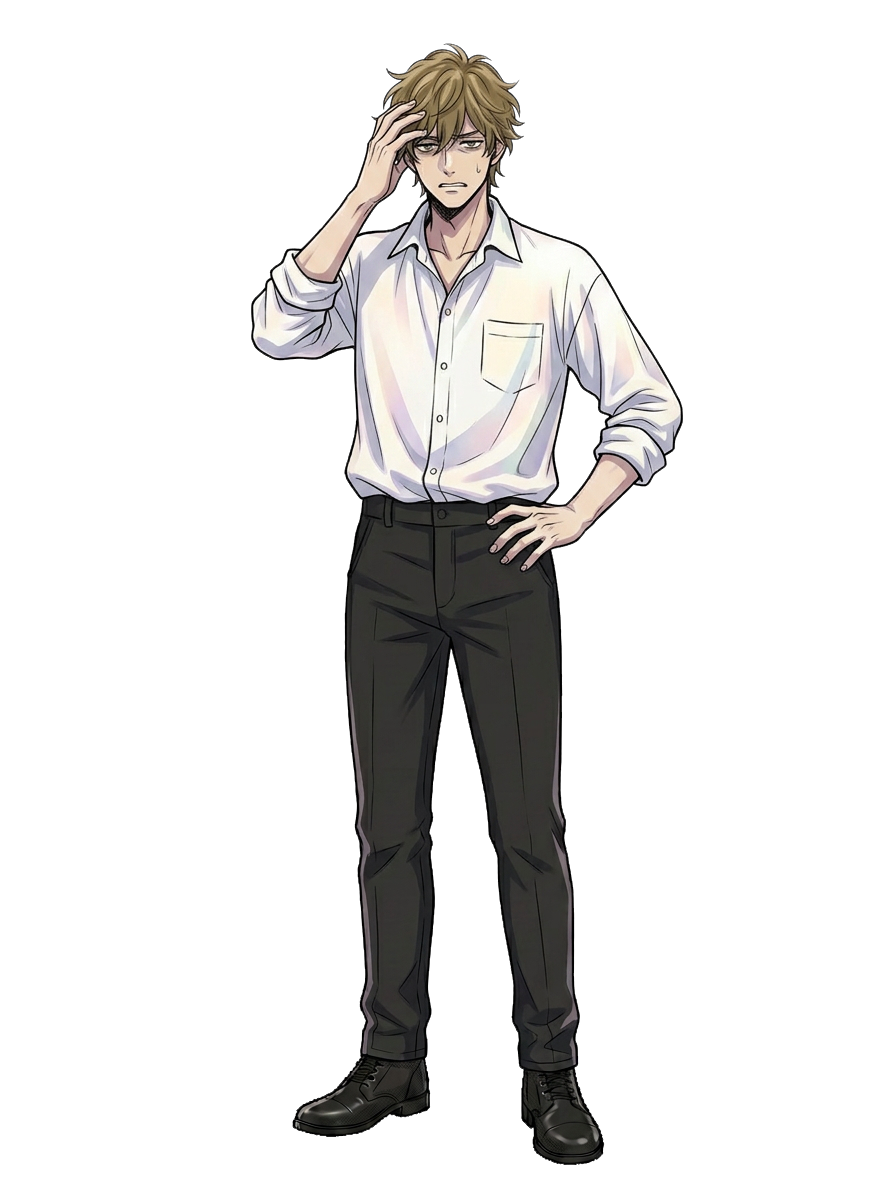
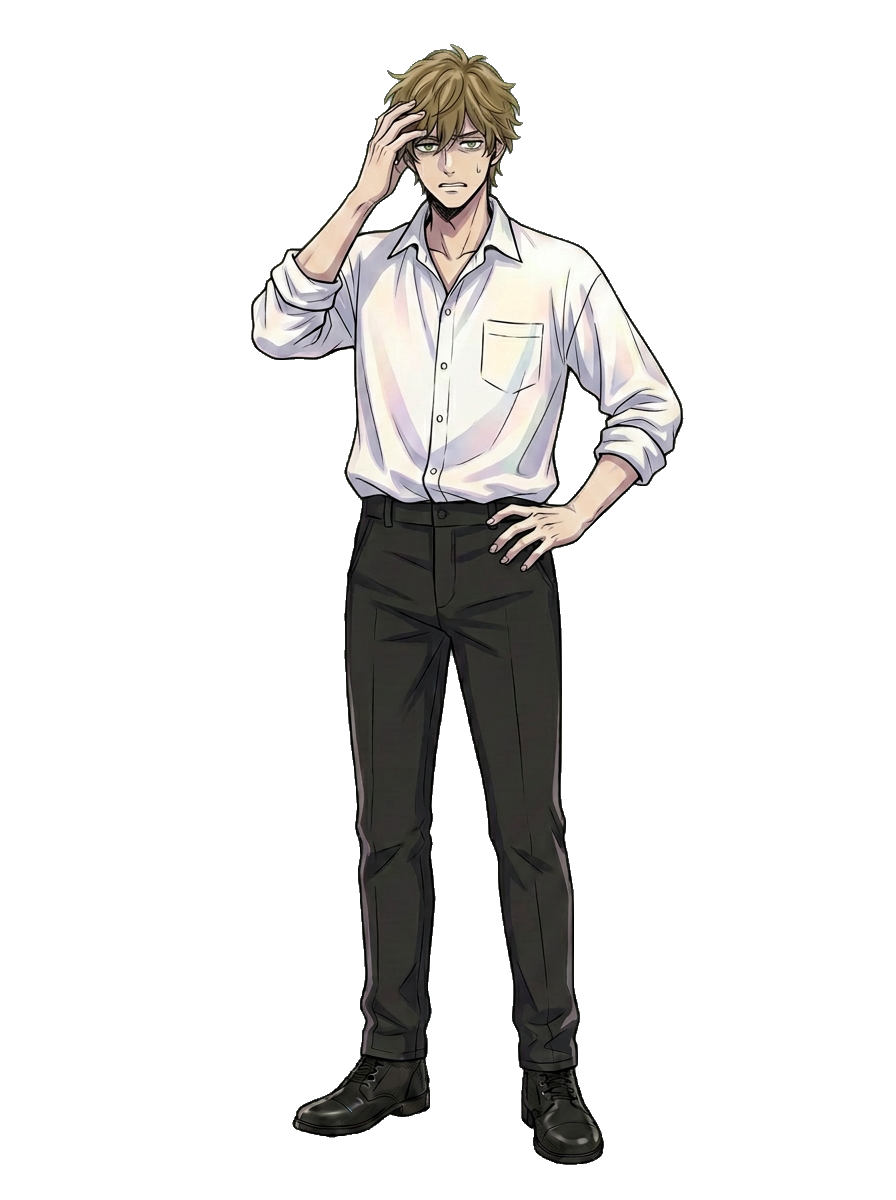
Courier thermo box in prologue text; chroma-key sprite pipeline (tools/chroma_key.py); Sasha shirt set re-cut x10, eyes fixed on 3; ASSET_VER _14

diff --git a/index.html b/index.html
@@ -260,34 +260,34 @@
   </div>
 
   <!-- SCRIPT CHAPTERS -->
-  <script src="vn-config.js?v=20261101_13"></script>
-  <script src="vn-core.js?v=20261101_13"></script>
-  <script src="script/_registry.js?v=20261101_13"></script>
-  <script src="script/prologue_1_morning.js?v=20261101_13"></script>
-  <script src="script/prologue_2_city.js?v=20261101_13"></script>
-  <script src="script/prologue_3_barbershop.js?v=20261101_13"></script>
-  <script src="script/prologue_4_depot.js?v=20261101_13"></script>
-  <script src="script/prologue_5_crash.js?v=20261101_13"></script>
-  <script src="script/day1_1_mirael.js?v=20261101_13"></script>
-  <script src="script/day1_2_valeria.js?v=20261101_13"></script>
-  <script src="script/day1_3_evening.js?v=20261101_13"></script>
-  <script src="script/day2_1_quit.js?v=20261101_13"></script>
-  <script src="script/day2_2_zero.js?v=20261101_13"></script>
-  <script src="script/day2_3_walk.js?v=20261101_13"></script>
-  <script src="script/day3_1_office.js?v=20261101_13"></script>
-  <script src="script/day3_2_nika.js?v=20261101_13"></script>
-  <script src="script/day3_3_home.js?v=20261101_13"></script>
-  <script src="script/day4_1_free.js?v=20261101_13"></script>
-  <script src="script/day4_2_barbershop.js?v=20261101_13"></script>
-  <script src="script/day4_3_home.js?v=20261101_13"></script>
-  <script src="script/day5_1_artyom.js?v=20261101_13"></script>
-  <script src="script/day5_2_elevator.js?v=20261101_13"></script>
-  <script src="script/day5_3_night.js?v=20261101_13"></script>
-  <script src="script/day6_1_morning.js?v=20261101_13"></script>
-  <script src="script/day6_2_squeeze.js?v=20261101_13"></script>
-  <script src="script/day6_3_taya.js?v=20261101_13"></script>
-  <script src="script/day7_1_voices.js?v=20261101_13"></script>
-  <script src="script/day7_2_stairs.js?v=20261101_13"></script>
-  <script src="engine.js?v=20261101_13"></script>
+  <script src="vn-config.js?v=20261101_14"></script>
+  <script src="vn-core.js?v=20261101_14"></script>
+  <script src="script/_registry.js?v=20261101_14"></script>
+  <script src="script/prologue_1_morning.js?v=20261101_14"></script>
+  <script src="script/prologue_2_city.js?v=20261101_14"></script>
+  <script src="script/prologue_3_barbershop.js?v=20261101_14"></script>
+  <script src="script/prologue_4_depot.js?v=20261101_14"></script>
+  <script src="script/prologue_5_crash.js?v=20261101_14"></script>
+  <script src="script/day1_1_mirael.js?v=20261101_14"></script>
+  <script src="script/day1_2_valeria.js?v=20261101_14"></script>
+  <script src="script/day1_3_evening.js?v=20261101_14"></script>
+  <script src="script/day2_1_quit.js?v=20261101_14"></script>
+  <script src="script/day2_2_zero.js?v=20261101_14"></script>
+  <script src="script/day2_3_walk.js?v=20261101_14"></script>
+  <script src="script/day3_1_office.js?v=20261101_14"></script>
+  <script src="script/day3_2_nika.js?v=20261101_14"></script>
+  <script src="script/day3_3_home.js?v=20261101_14"></script>
+  <script src="script/day4_1_free.js?v=20261101_14"></script>
+  <script src="script/day4_2_barbershop.js?v=20261101_14"></script>
+  <script src="script/day4_3_home.js?v=20261101_14"></script>
+  <script src="script/day5_1_artyom.js?v=20261101_14"></script>
+  <script src="script/day5_2_elevator.js?v=20261101_14"></script>
+  <script src="script/day5_3_night.js?v=20261101_14"></script>
+  <script src="script/day6_1_morning.js?v=20261101_14"></script>
+  <script src="script/day6_2_squeeze.js?v=20261101_14"></script>
+  <script src="script/day6_3_taya.js?v=20261101_14"></script>
+  <script src="script/day7_1_voices.js?v=20261101_14"></script>
+  <script src="script/day7_2_stairs.js?v=20261101_14"></script>
+  <script src="engine.js?v=20261101_14"></script>
 </body>
 </html>

diff --git a/script/prologue_2_city.js b/script/prologue_2_city.js
@@ -112,7 +112,7 @@ window.VN_CHAPTERS.push({
     { sprite: "clear", text: "Лифт ехал вниз долго, с остановками на пустых этажах. Саша от нечего делать открыл заметки, наткнулся на номер деканата и закрыл заметки." },
     { bg: "bg_river_steps_bridge", text: "Между заказами выпало минут пятнадцать свободных. Саша взял квас в ларьке у моста и сел на гранитные ступени у воды, в тень от моста." },
     { text: "Внизу мальчишки прыгали с парапета, визжали и всплывали, отфыркиваясь. Утки держались от них подальше. С того берега тянуло чьим-то шашлыком." },
-    { bg: "cg_kvass_steps", sprite: "clear", text: "Фейнман с оторванной обложкой всегда лежал в рюкзаке, на всякий случай. Саша открыл его на загнутом уголке и прочитал абзац. Потом тот же абзац ещё раз. Потом просто смотрел на воду." },
+    { bg: "cg_kvass_steps", sprite: "clear", text: "Фейнман с оторванной обложкой всегда лежал в кармане термокороба, на всякий случай. Саша открыл его на загнутом уголке и прочитал абзац. Потом тот же абзац ещё раз. Потом просто смотрел на воду." },
     { speaker: "Александр", thought: true, text: "Вот так бы и сидеть. Ничего не решать. Кто-нибудь когда-нибудь сам придёт и скажет: Орехов, вот твоё дело, вот твоя жизнь, распишись." },
     { bg: "bg_river_steps_bridge", text: "Приложение звякнуло, ругнулось оранжевым. Квас кончился. Он сунул книгу обратно, так и не загнув новый уголок." },
     { sprite: "clear", text: "Обратно в центр до следующей точки было минут двадцать. Дорог две: через старые дворы или вдоль воды." },

diff --git a/script/prologue_4_depot.js b/script/prologue_4_depot.js
@@ -134,7 +134,7 @@ window.VN_CHAPTERS.push({
     {
       if: "raincoat_packed",
       then: [
-        { sprite: { char: "alexander_jacket", emotion: "rain", pos: "left" }, text: "Саша вытащил из рюкзака жёлтый рулон и натянул дождевик прямо поверх рубашки. Светоотражающие полосы вспыхнули в фарах проезжающей маршрутки." },
+        { sprite: { char: "alexander_jacket", emotion: "rain", pos: "left" }, text: "Саша вытащил из кармана термокороба жёлтый рулон и натянул дождевик прямо поверх рубашки. Светоотражающие полосы вспыхнули в фарах проезжающей маршрутки." },
         { speaker: "Лена", sprite: { char: "lena", emotion: "snide", pos: "right" }, text: "Смотри-ка. Взрослый человек. Прогноз погоды читает." }
       ],
       else: [

diff --git a/script/prologue_1_morning.js b/script/prologue_1_morning.js
@@ -120,11 +120,11 @@ window.VN_CHAPTERS.push({
         prompt: "Синоптики обещали к ночи грозу.",
         options: [
           {
-            label: "Свернуть дождевик в рюкзак",
+            label: "Сунуть дождевик в карман термокороба",
             set: { raincoat_packed: true },
             next: [
               { speaker: "Александр", thought: true, text: "Синоптики врут через раз. Но мокнуть в Заречном — это без меня." },
-              { text: "Дождевик свернулся в тугой жёлтый рулон и занял половину рюкзака." }
+              { text: "Дождевик свернулся в тугой жёлтый рулон и еле влез в боковой карман термокороба." }
             ]
           },
           {

diff --git a/engine.js b/engine.js
@@ -1,6 +1,6 @@
 // ДВИЖОК ВИЗУАЛЬНОЙ НОВЕЛЛЫ «НЕ СМОТРИ НА НЕБО» ($WAG ENTERTAINMENT)
 (function () {
-  const ASSET_VER = "20261101_13";
+  const ASSET_VER = "20261101_14";
 
   function withVer(url) {
     if (!url) return "";

diff --git a/tools/chroma_key.py b/tools/chroma_key.py
@@ -1,0 +1,126 @@
+#!/usr/bin/env python3
+"""Хромакей для спрайтов: зелёный (или синий) фон -> прозрачность.
+
+Пайплайн (см. docs/production/assets.md, «Перевырезка спрайтов»):
+  1. Исходный спрайт на белом -> генератор «замени только фон на #00FF00».
+  2. Этот скрипт: вырезает фон, убирает зелёный отсвет по краю,
+     подгоняет фигуру по росту/положению к старому спрайту (--ref),
+     чтобы не съехали настройки слотов в styles.css.
+
+Использование:
+  python tools/chroma_key.py in_green.png out.png [--ref old_transparent.png] [--key blue]
+
+Нужны pillow, numpy, opencv-python-headless.
+"""
+import argparse
+
+import cv2
+import numpy as np
+from PIL import Image
+
+
+def key_alpha(rgb, key="green"):
+    r, g, b = rgb[..., 0], rgb[..., 1], rgb[..., 2]
+    if key == "green":
+        dom = g - np.maximum(r, b)
+    else:
+        dom = b - np.maximum(r, g)
+    h, w = dom.shape
+    border = np.concatenate([dom[0], dom[-1], dom[:, 0], dom[:, -1]])
+    k = float(np.median(border))  # «сила» ключа на чистом фоне
+    k = max(k, 60.0)
+    # ядро фона: сильно-зелёные пиксели (глаза/оливковая одежда сюда не попадают)
+    core = (dom > 0.5 * k).astype(np.uint8)
+    core = cv2.morphologyEx(core, cv2.MORPH_OPEN, np.ones((3, 3), np.uint8))
+    # мелкие «островки» внутри фигуры размером с блик — не фон
+    n, lab, st, _ = cv2.connectedComponentsWithStats(core, connectivity=8)
+    keep = np.zeros(n, bool)
+    for i in range(1, n):
+        x, y, ww, hh, area = st[i]
+        touches = x == 0 or y == 0 or x + ww >= w or y + hh >= h
+        keep[i] = touches or area >= 60
+    core = keep[lab].astype(np.uint8)
+    # узкие щели (между рукой и боком и т.п.) с почти чистым ключом — тоже фон
+    core |= (dom > 0.75 * k).astype(np.uint8)
+    # зона ключа: 12 px вокруг фона — ловит просветы между прядями;
+    # глаза и одежда глубже внутри фигуры и сюда не попадают
+    band = cv2.dilate(core, cv2.getStructuringElement(cv2.MORPH_ELLIPSE, (25, 25))).astype(bool)
+    # альфа по «зелёному перевесу»: 0 на чистом ключе, 1 на обычном цвете
+    lo, hi = 0.12 * k, 0.88 * k
+    a = 1.0 - np.clip((dom - lo) / (hi - lo), 0.0, 1.0)
+    alpha = np.ones_like(dom)
+    alpha[band] = a[band]
+    alpha[core.astype(bool)] = 0.0
+    return alpha, band, k
+
+
+def despill(rgb, alpha, band, key="green"):
+    out = rgb.copy()
+    r, g, b = out[..., 0], out[..., 1], out[..., 2]
+    m = band & (alpha > 0)
+    if key == "green":
+        lim = np.maximum(r, b)
+        out[..., 1] = np.where(m, np.minimum(g, lim), g)
+    else:
+        lim = np.maximum(r, g)
+        out[..., 2] = np.where(m, np.minimum(b, lim), b)
+    return out
+
+
+def bbox(alpha, thr=0.5):
+    ys, xs = np.nonzero(alpha > thr)
+    return xs.min(), ys.min(), xs.max(), ys.max()
+
+
+def align_to_ref(rgba, ref_rgba):
+    """Масштаб/сдвиг так, чтобы фигура совпала по высоте, макушке и центру с эталоном."""
+    H, W = ref_rgba.shape[:2]
+    a = rgba[..., 3] / 255.0
+    ra = ref_rgba[..., 3] / 255.0
+    x0, y0, x1, y1 = bbox(a)
+    rx0, ry0, rx1, ry1 = bbox(ra)
+    s = (ry1 - ry0) / max(1, (y1 - y0))
+    cx, rcx = (x0 + x1) / 2, (rx0 + rx1) / 2
+    if abs(s - 1.0) < 0.01:
+        # тот же масштаб: целочисленный сдвиг без ресемплинга (без мыла)
+        dx, dy = int(round(rcx - cx)), int(round(ry0 - y0))
+        out = np.zeros((H, W, 4), np.uint8)
+        src = rgba[max(0, -dy):, max(0, -dx):]
+        hh, ww = min(H - max(0, dy), src.shape[0]), min(W - max(0, dx), src.shape[1])
+        out[max(0, dy):max(0, dy) + hh, max(0, dx):max(0, dx) + ww] = src[:hh, :ww]
+        return out, 1.0
+    M = np.float32([[s, 0, rcx - s * cx], [0, s, ry0 - s * y0]])
+    # премультипликация, чтобы при ресемплинге не тянуло цвет фона
+    pm = rgba.astype(np.float32)
+    pm[..., :3] *= pm[..., 3:4] / 255.0
+    warped = cv2.warpAffine(pm, M, (W, H), flags=cv2.INTER_LANCZOS4,
+                            borderMode=cv2.BORDER_CONSTANT, borderValue=(0, 0, 0, 0))
+    al = np.clip(warped[..., 3:4], 0, 255)
+    rgb = np.where(al > 0.5, warped[..., :3] * 255.0 / np.maximum(al, 1e-3), 0)
+    out = np.concatenate([np.clip(rgb, 0, 255), al], axis=2)
+    return np.rint(out).astype(np.uint8), s
+
+
+def main():
+    ap = argparse.ArgumentParser()
+    ap.add_argument("src")
+    ap.add_argument("dst")
+    ap.add_argument("--ref")
+    ap.add_argument("--key", default="green", choices=["green", "blue"])
+    args = ap.parse_args()
+
+    rgb = np.asarray(Image.open(args.src).convert("RGB")).astype(np.float32)
+    alpha, band, k = key_alpha(rgb, args.key)
+    rgb = despill(rgb, alpha, band, args.key)
+    rgba = np.rint(np.dstack([rgb, alpha * 255.0]).clip(0, 255)).astype(np.uint8)
+    info = f"key={k:.0f}"
+    if args.ref:
+        ref = np.asarray(Image.open(args.ref).convert("RGBA"))
+        rgba, s = align_to_ref(rgba, ref)
+        info += f" scale={s:.3f}"
+    Image.fromarray(rgba, "RGBA").save(args.dst, optimize=True)
+    print(args.dst, info)
+
+
+if __name__ == "__main__":
+    main()

diff --git a/docs/production/assets.md b/docs/production/assets.md
@@ -110,3 +110,22 @@
 
 Правило: на CG-узле всегда `sprite: "clear"`; спрайты возвращаются вместе с обычным фоном.
 
+## Перевырезка спрайтов через хромакей (с 01.11)
+
+Старые спрайты вырезались с белого фона → кромки, дыры в белой одежде, щели между рукой и боком. Новый пайплайн:
+
+1. Исходник на белом (`assets/characters/<имя>/*.png`; у Лены/Ники — прозрачный, подложенный на белый) → генератор: «замени ТОЛЬКО фон на ровный #00FF00, персонажа не меняй». Если на спрайте плохие глаза — в том же запросе «поправь глаза, выражение то же».
+2. `python tools/chroma_key.py green.png out.png --ref <старый transparent>` — вырезает фон (только связанный с полем + узкие щели, поэтому зелёные глаза не трогаются), убирает зелёный отсвет по кромке, ставит фигуру ровно туда же и того же роста, что старая (настройки слотов в `styles.css` не съезжают).
+3. Проверка: силуэт совпадает со старым (IoU ≳ 0.99), лицо не уехало, зелёных пикселей 0.
+4. Зелёный ключ; для персонажей в зелёном (Тая — оливковый кардиган) — `--key blue`.
+5. **Артём** — только с согласия автора (лицо срисовано с реального человека, генератор может сдвинуть сходство).
+
+| Набор | Статус |
+|---|---|
+| Саша, рубашка: neutral, smile, stressed*, surprised*, thoughtful, wounded, determined_anger, happy, sad, shocked* | ✅ 01.11 (* — поправлены глаза) |
+| Саша: shy, shocked_terrified, куртка ×7, courier_rain | ⏳ |
+| Мираэль (ангел ×8, человек ×8) | ⏳ |
+| Валерия (×9 + human ×9) | ⏳ |
+| Лена ×10, Ника ×8, Дмитрий ×5 | ⏳ |
+| Тая | ждём новый дефолтный спрайт от автора |
+
